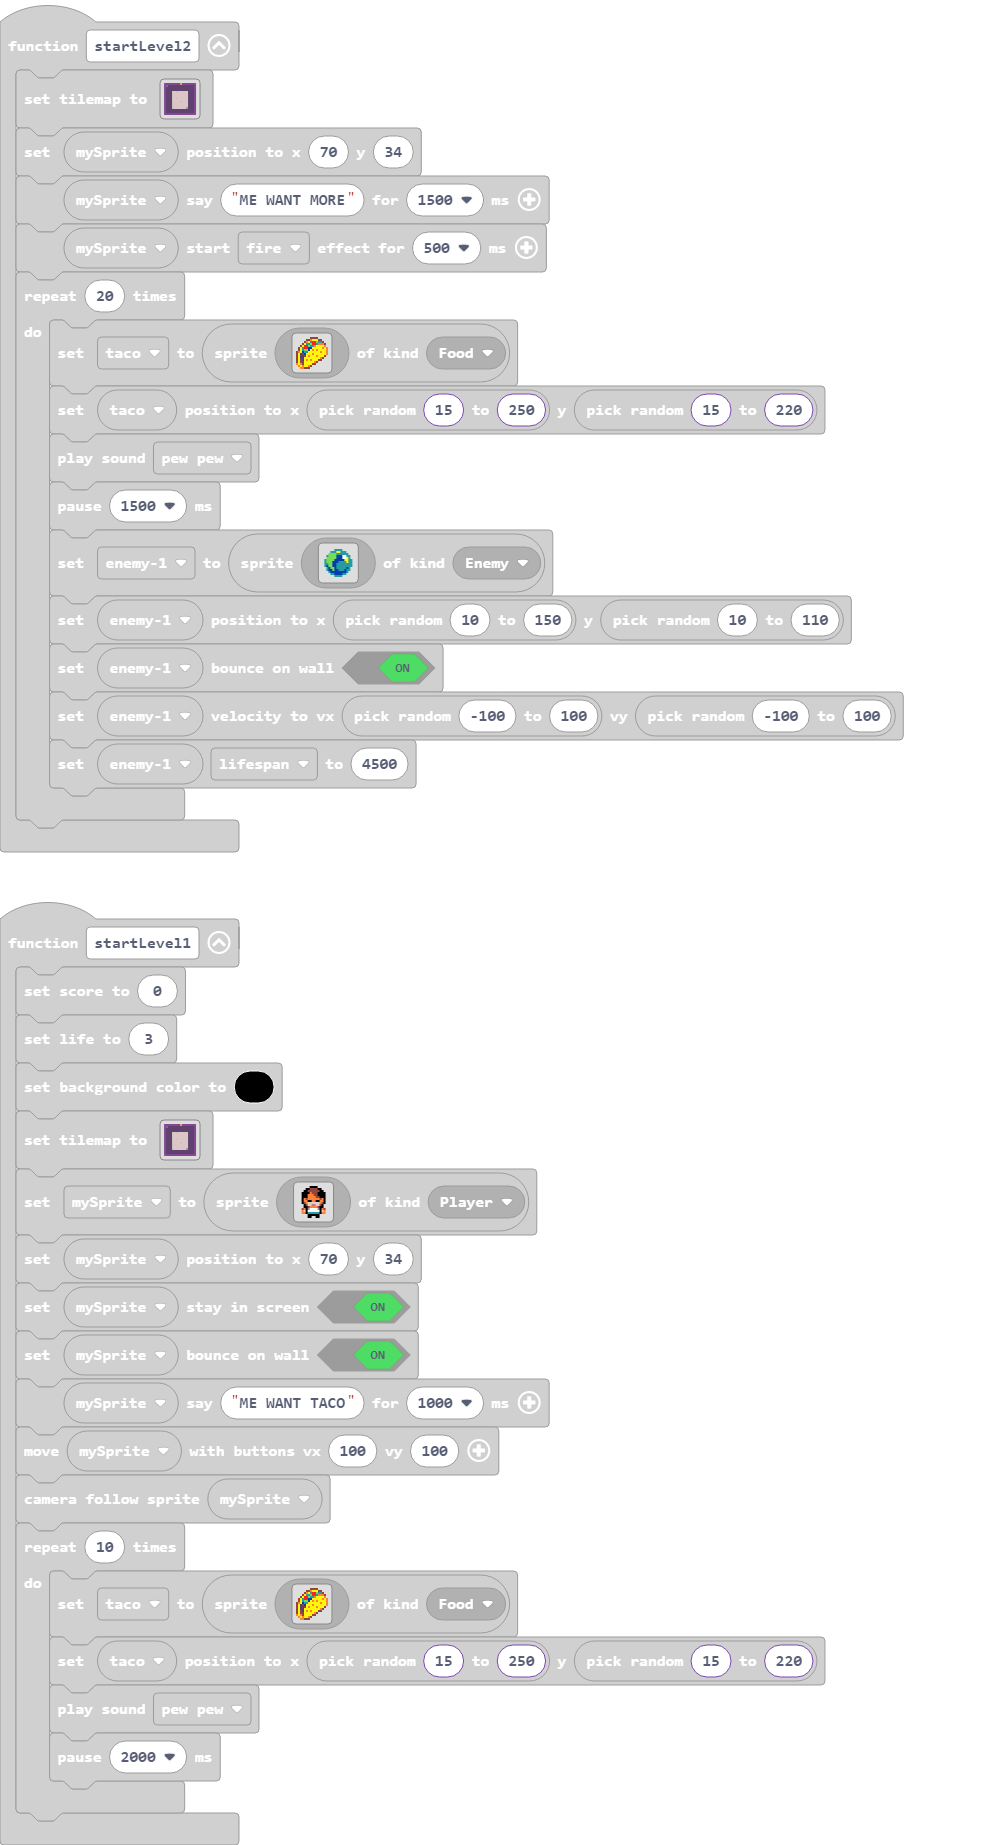
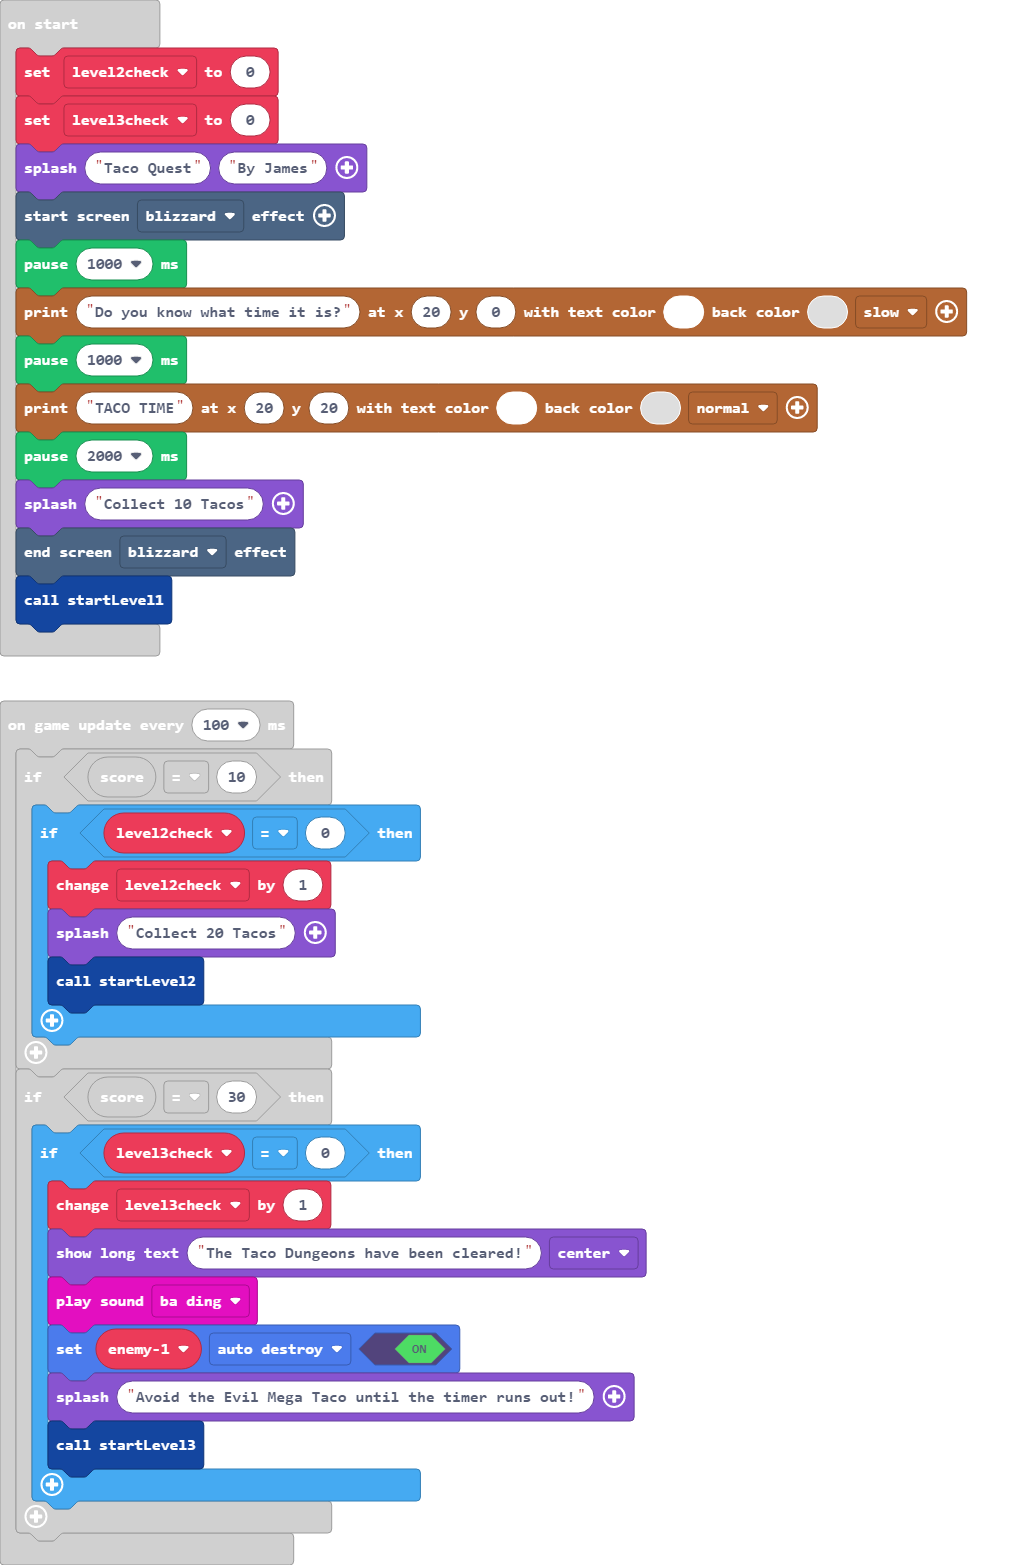
Next level check bugfix

diff --git a/main.ts b/main.ts
@@ -173,6 +173,8 @@ let eviltaco: Sprite = null
 let enemy1: Sprite = null
 let taco: Sprite = null
 let mySprite: Sprite = null
+let level2check = 0
+let level3check = 0
 game.splash("Taco Quest", "By James")
 effects.blizzard.startScreenEffect()
 pause(1000)
@@ -185,14 +187,20 @@ effects.blizzard.endScreenEffect()
 startLevel1()
 game.onUpdateInterval(100, function () {
     if (info.score() == 10) {
-        game.splash("Collect 20 Tacos")
-        startLevel2()
+        if (level2check == 0) {
+            level2check += 1
+            game.splash("Collect 20 Tacos")
+            startLevel2()
+        }
     }
     if (info.score() == 30) {
-        game.showLongText("The Taco Dungeons have been cleared!", DialogLayout.Center)
-        music.baDing.play()
-        enemy1.setFlag(SpriteFlag.AutoDestroy, true)
-        game.splash("Avoid the Evil Mega Taco until the timer runs out!")
-        startLevel3()
+        if (level3check == 0) {
+            level3check += 1
+            game.showLongText("The Taco Dungeons have been cleared!", DialogLayout.Center)
+            music.baDing.play()
+            enemy1.setFlag(SpriteFlag.AutoDestroy, true)
+            game.splash("Avoid the Evil Mega Taco until the timer runs out!")
+            startLevel3()
+        }
     }
 })
